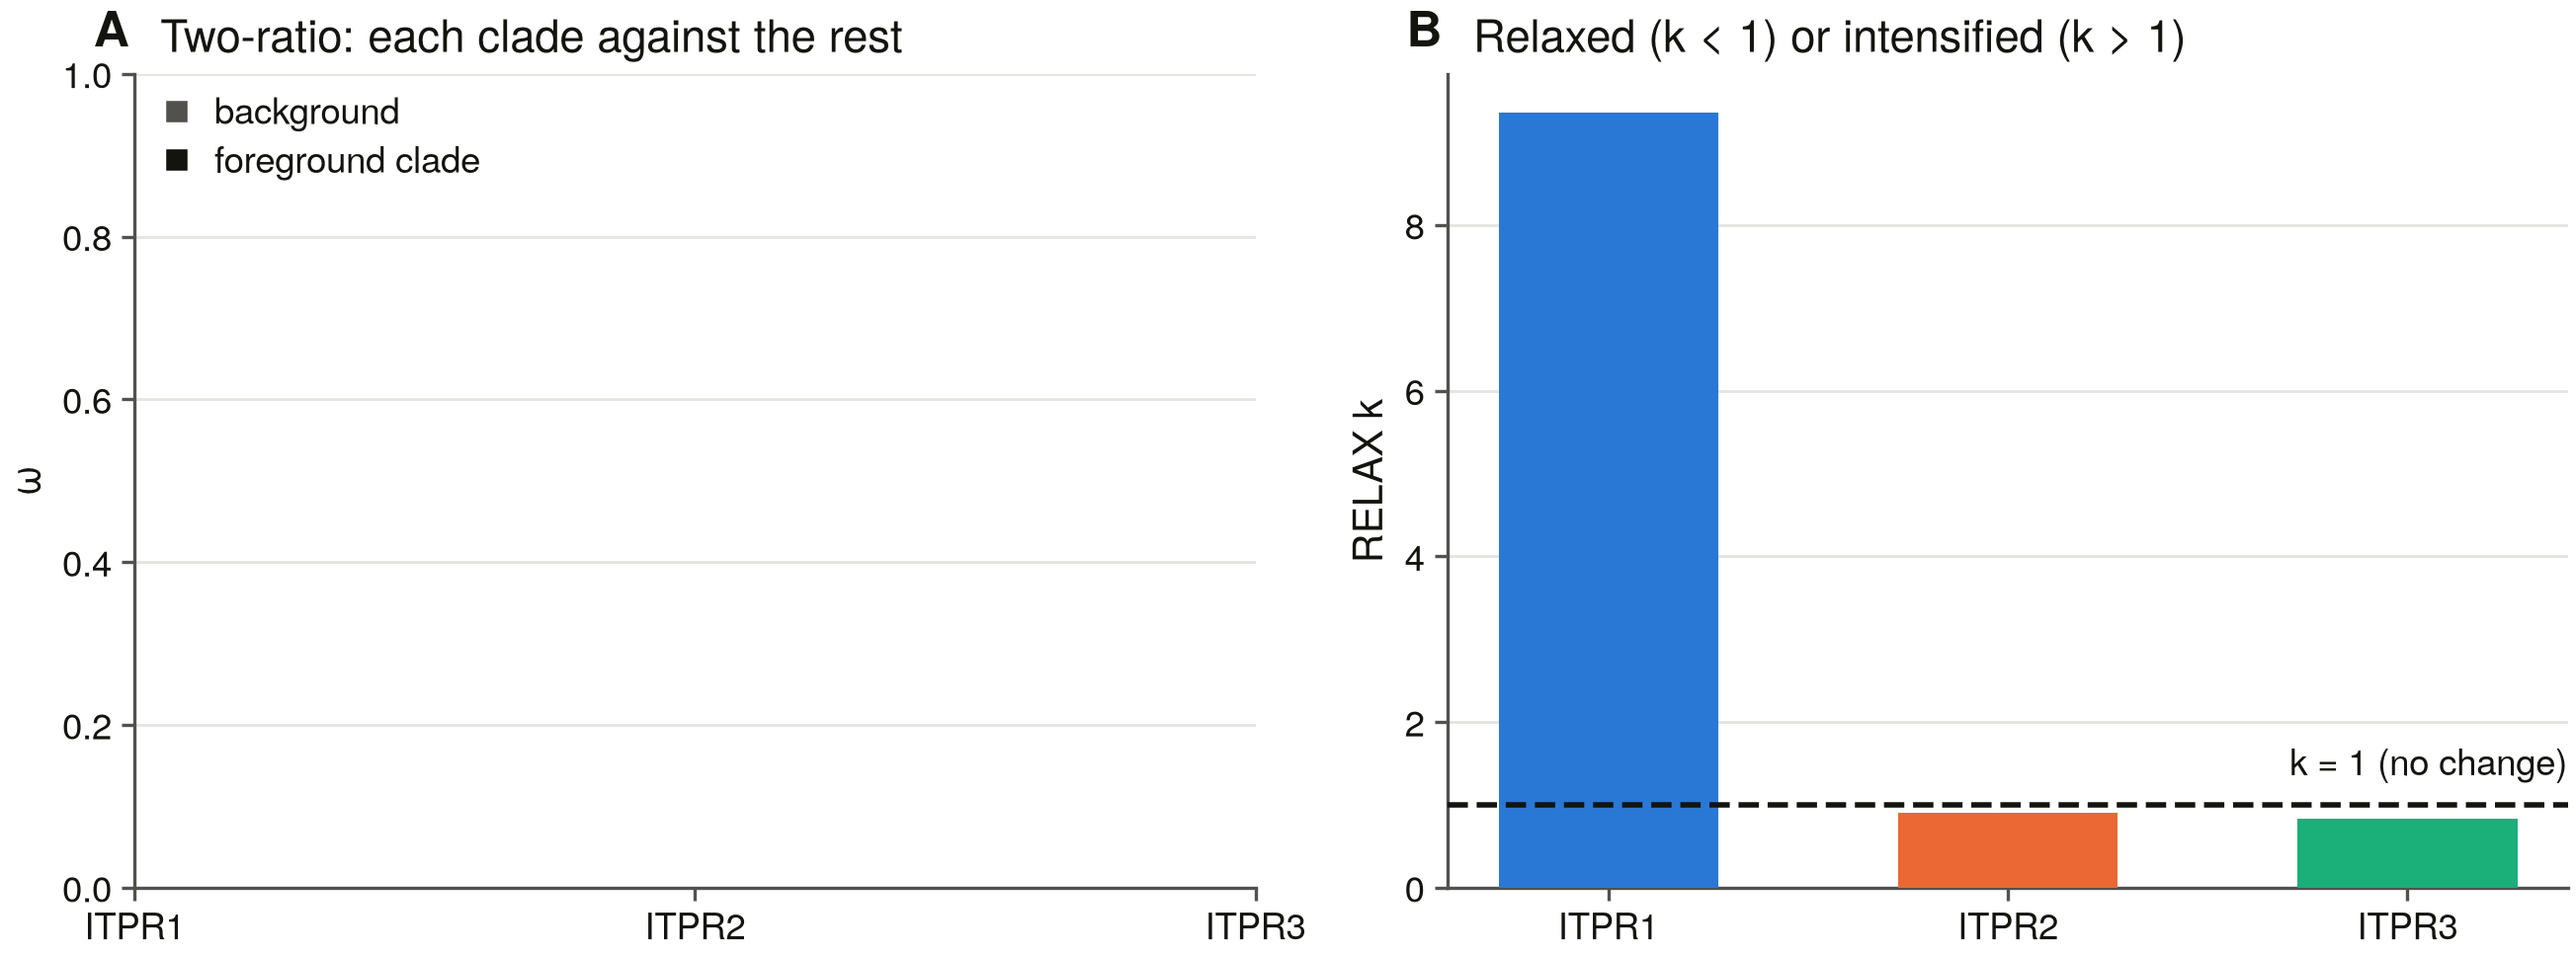
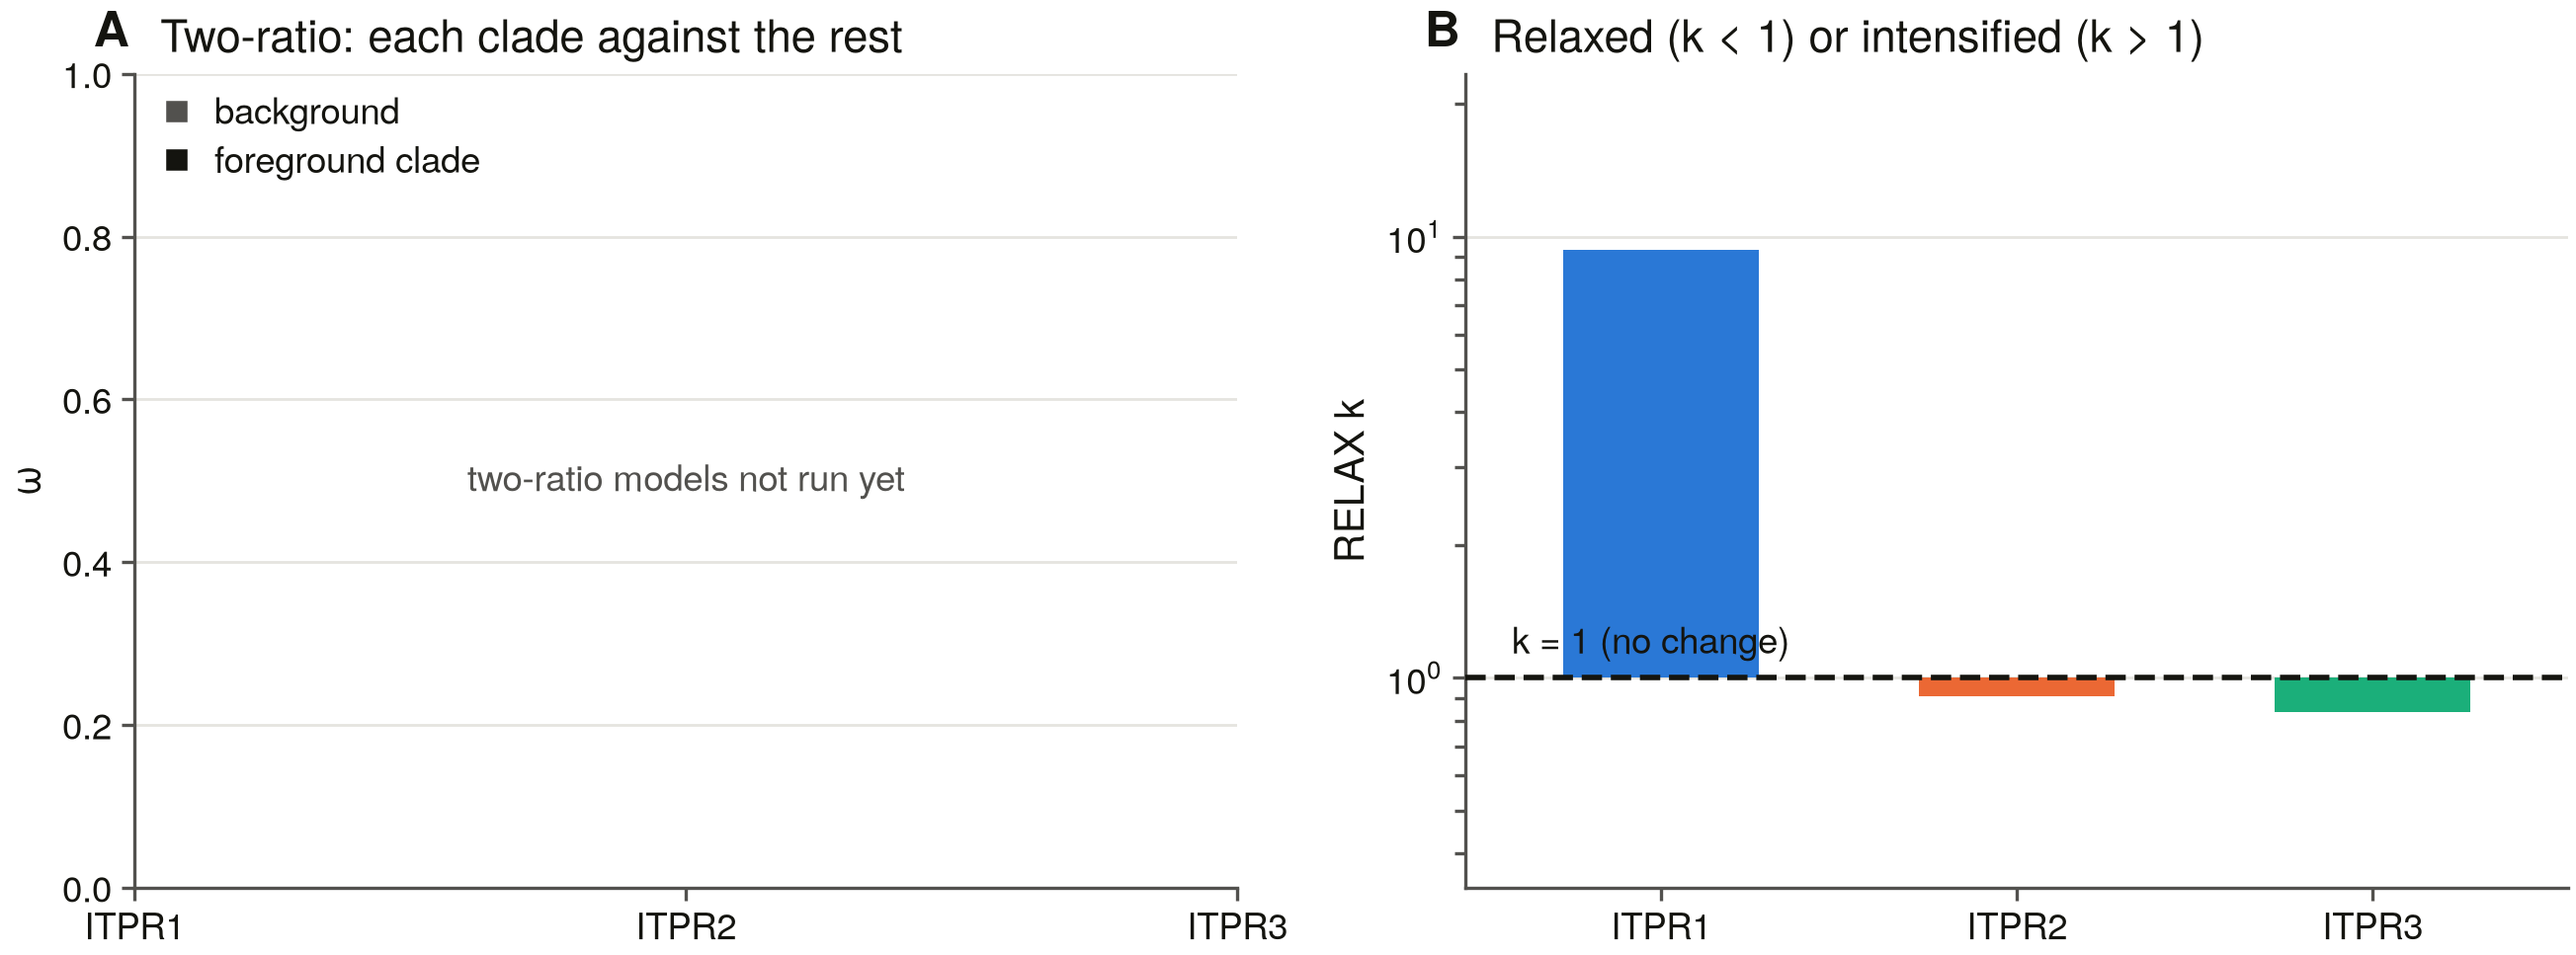
S9b figures: RELAX k on a log axis anchored at 1, and an honest empty panel
k is an exponent on the omega distribution, so relaxation and
intensification are multiplicative around 1 — k = 0.5 and k = 2 are the
same size of effect in opposite directions. On a linear axis ITPR1's
k = 9.36 flattened both relaxed paralogs onto the k = 1 line and hid the
direction the panel exists to show. Bars now run from k = 1, so length is
effect size and side is direction. The two-ratio panel says it is waiting
rather than rendering blank.

Claude-Session: https://claude.ai/code/session_01U7pgmimYtpF88oFcLEBKbF

diff --git a/scripts/s9_figures.py b/scripts/s9_figures.py
@@ -190,6 +190,10 @@ def fig_branch_contrast() -> None:
     ax1.set_xticks(range(len(PARALOGS)))
     ax1.set_xticklabels(PARALOGS)
     ax1.set_ylabel("ω")
+    if not have_tr:
+        ax1.text(0.5, 0.5, "two-ratio models not run yet",
+                 transform=ax1.transAxes, ha="center", va="center",
+                 color=fs.MUTED, fontsize=fs.FS_TICK)
     ax1.legend(handles=[
         Line2D([], [], marker="s", ls="", color=fs.MUTED, label="background"),
         Line2D([], [], marker="s", ls="", color=fs.INK, label="foreground clade")],
@@ -200,12 +204,26 @@ def fig_branch_contrast() -> None:
 
     ks = [f(relax.get(p, {}).get("k")) for p in PARALOGS]
     for i, p in enumerate(PARALOGS):
-        if ks[i] is not None:
-            ax2.bar(i, ks[i], 0.55, color=fs.PARALOG[p], zorder=3)
+        if ks[i] is not None and ks[i] > 0:
+            # drawn from k = 1, so a bar's length is the size of the effect
+            # and its side of the line is the direction
+            ax2.bar(i, ks[i] - 1.0, 0.55, bottom=1.0, color=fs.PARALOG[p],
+                    zorder=3)
     ax2.axhline(1.0, color=fs.INK, lw=1.0, ls="--", zorder=4)
-    ax2.annotate("k = 1 (no change)", xy=(len(PARALOGS) - 0.6, 1.0),
-                 xytext=(0, 4), textcoords="offset points", ha="right",
+    # k is an exponent on the ω distribution, so relaxation and
+    # intensification are multiplicative around 1 — k = 0.5 and k = 2 are
+    # the same size of effect in opposite directions. On a linear axis an
+    # intensified paralog at k = 9 flattens every relaxed one onto the
+    # k = 1 line and hides the direction the panel exists to show.
+    ks_ok = [k for k in ks if k is not None and k > 0]
+    if ks_ok:
+        ax2.set_yscale("log")
+        lo, hi = min(ks_ok + [1.0]), max(ks_ok + [1.0])
+        ax2.set_ylim(lo / 2.5, hi * 2.5)
+    ax2.annotate("k = 1 (no change)", xy=(-0.42, 1.0),
+                 xytext=(0, 3), textcoords="offset points", ha="left",
                  va="bottom", fontsize=fs.FS_TICK, color=fs.INK)
+    ax2.set_xlim(-0.55, len(PARALOGS) - 0.45)
     ax2.set_xticks(range(len(PARALOGS)))
     ax2.set_xticklabels(PARALOGS)
     ax2.set_ylabel("RELAX k")
